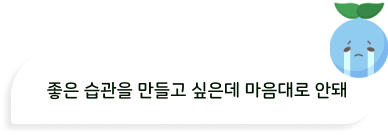
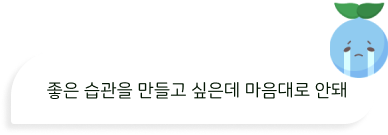
up

Changed region(s): [[0.1237, 0.5926, 0.8969, 0.7407]]

diff --git a/style.css b/style.css
@@ -977,10 +977,11 @@ a {
     margin-top:-75px;
 }
 .content a.talk img {
-    max-width: 280px;
+    max-width: 260px;
     height: auto;
 }
 #second-talk-img {
+    max-width: 230px;
     margin-left: -150px; /* 왼쪽으로 이동할 거리 */
 }
 
@@ -1196,7 +1197,7 @@ ow {
         #user h1 {
             margin: 0; /* 불필요한 여백 제거 */
             text-align: center;
-            margin-top: 300px;
+            margin-top: -200px;
             margin-bottom: 100px;
         }
        
